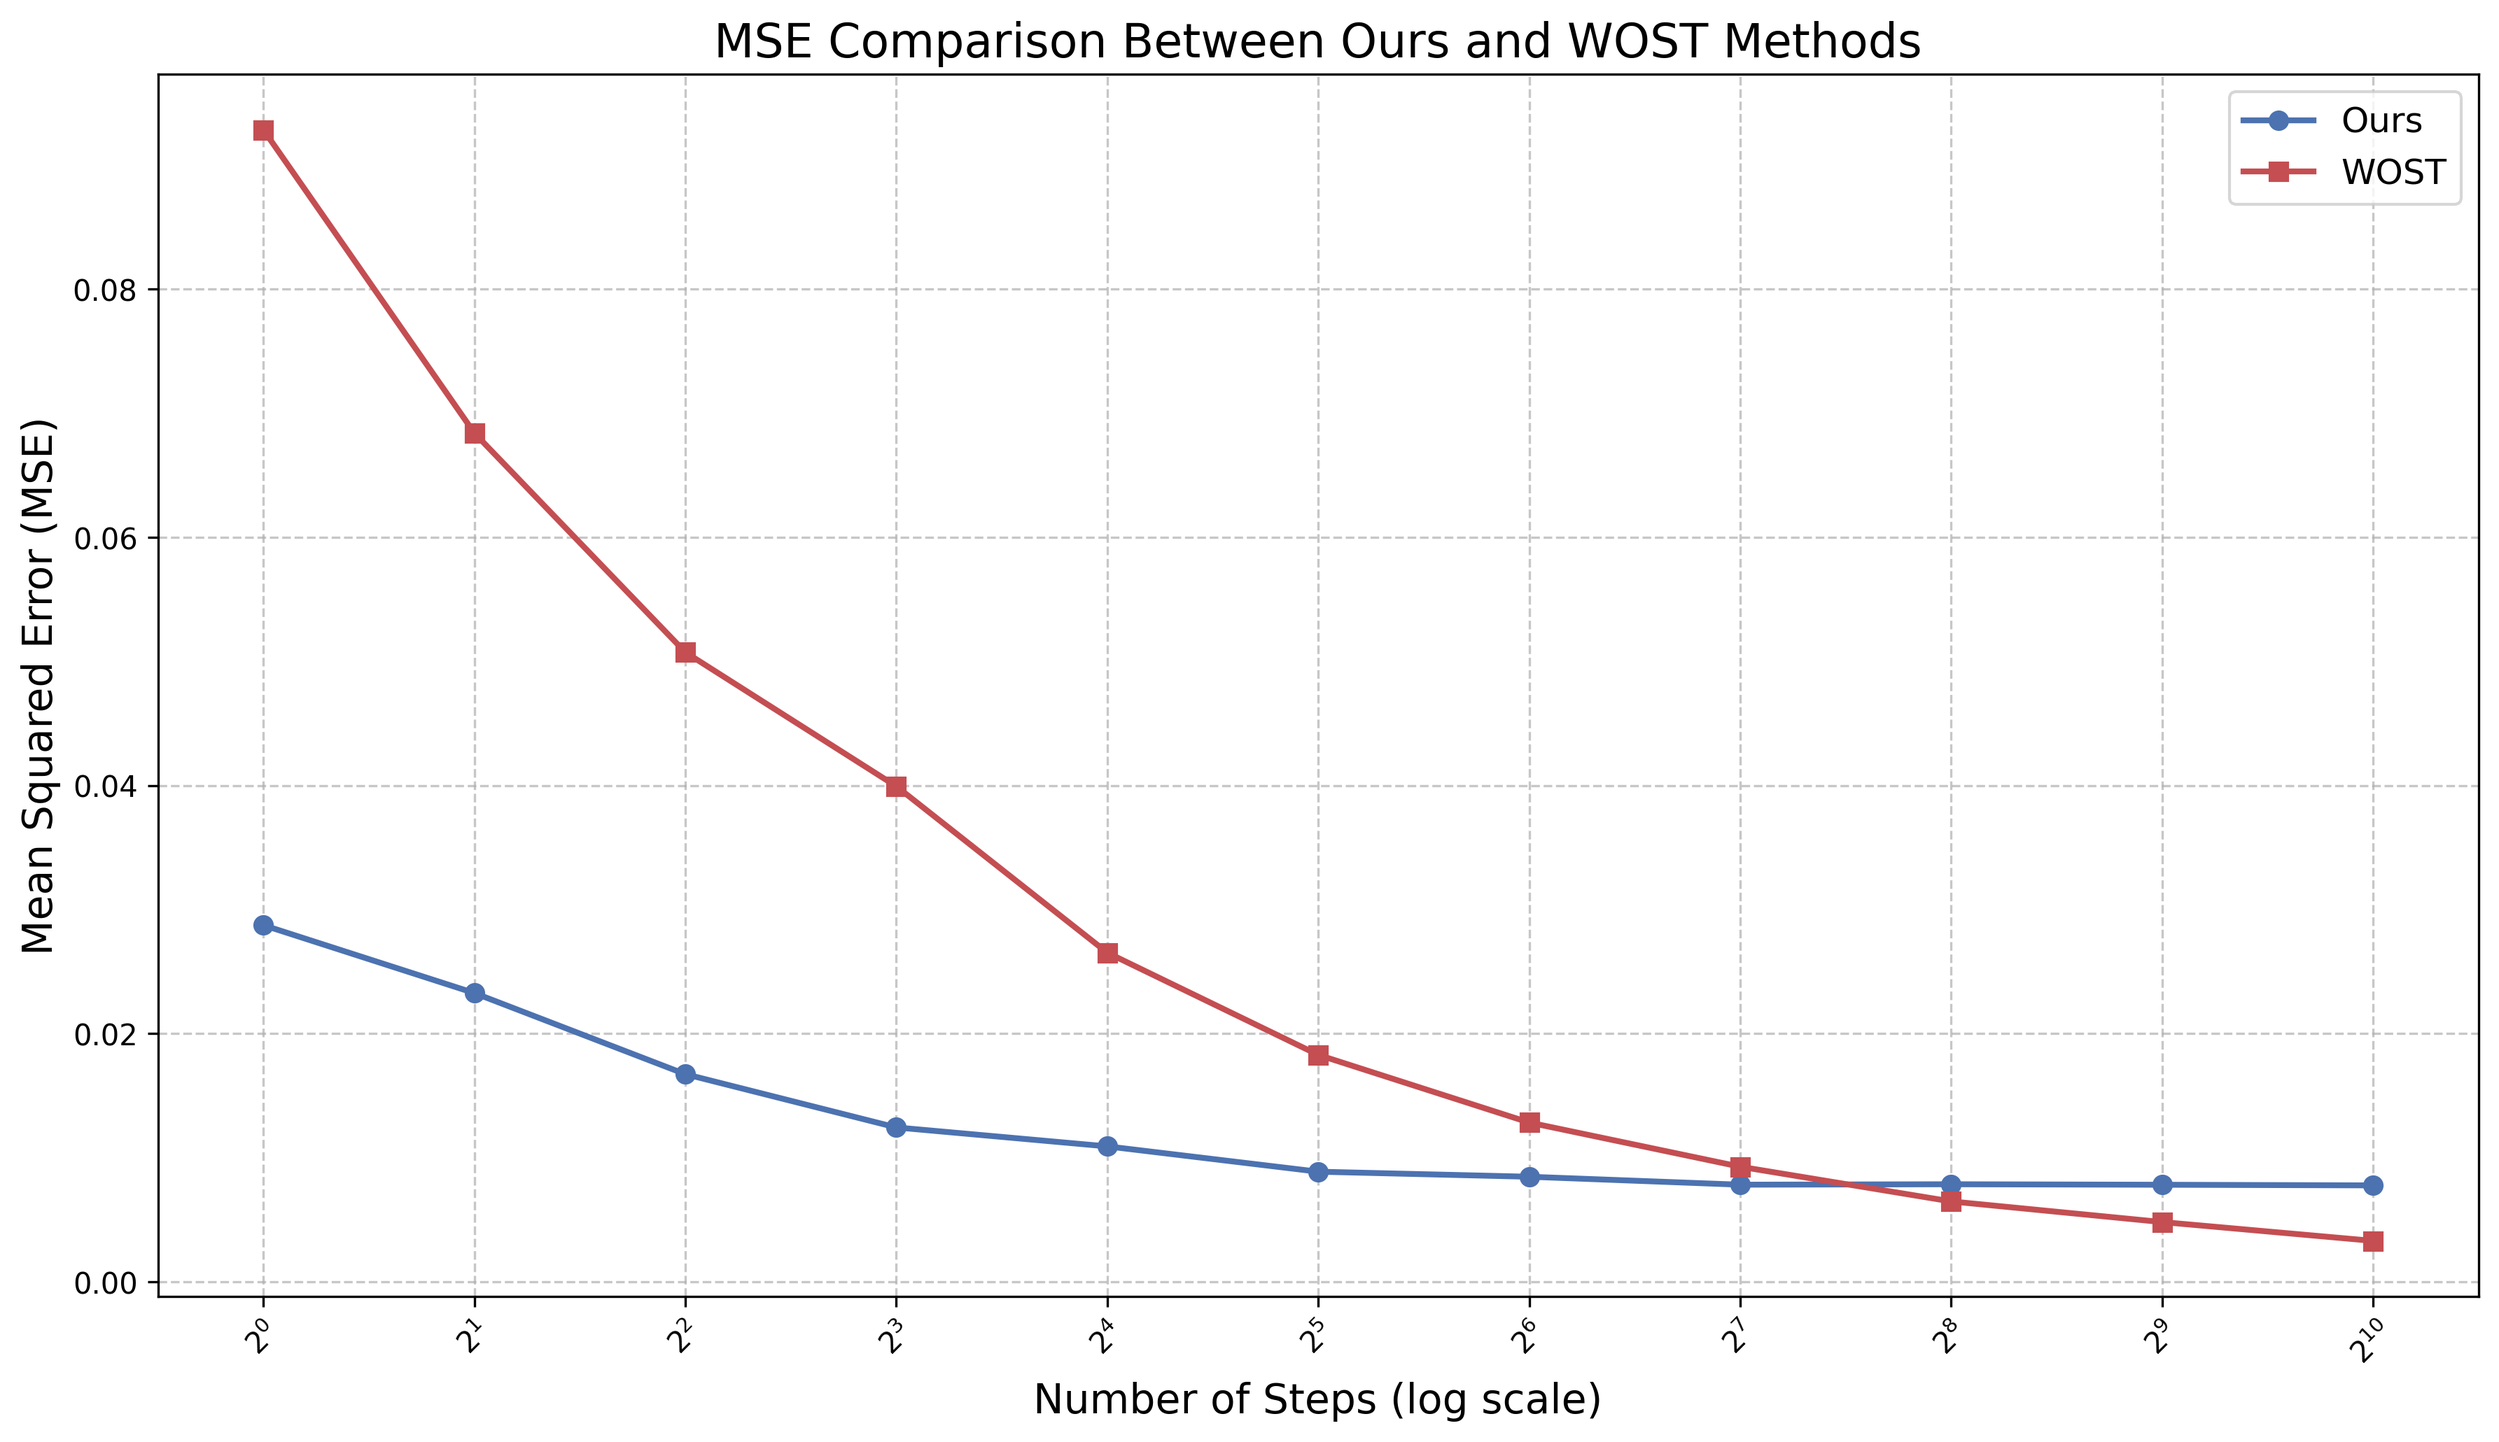
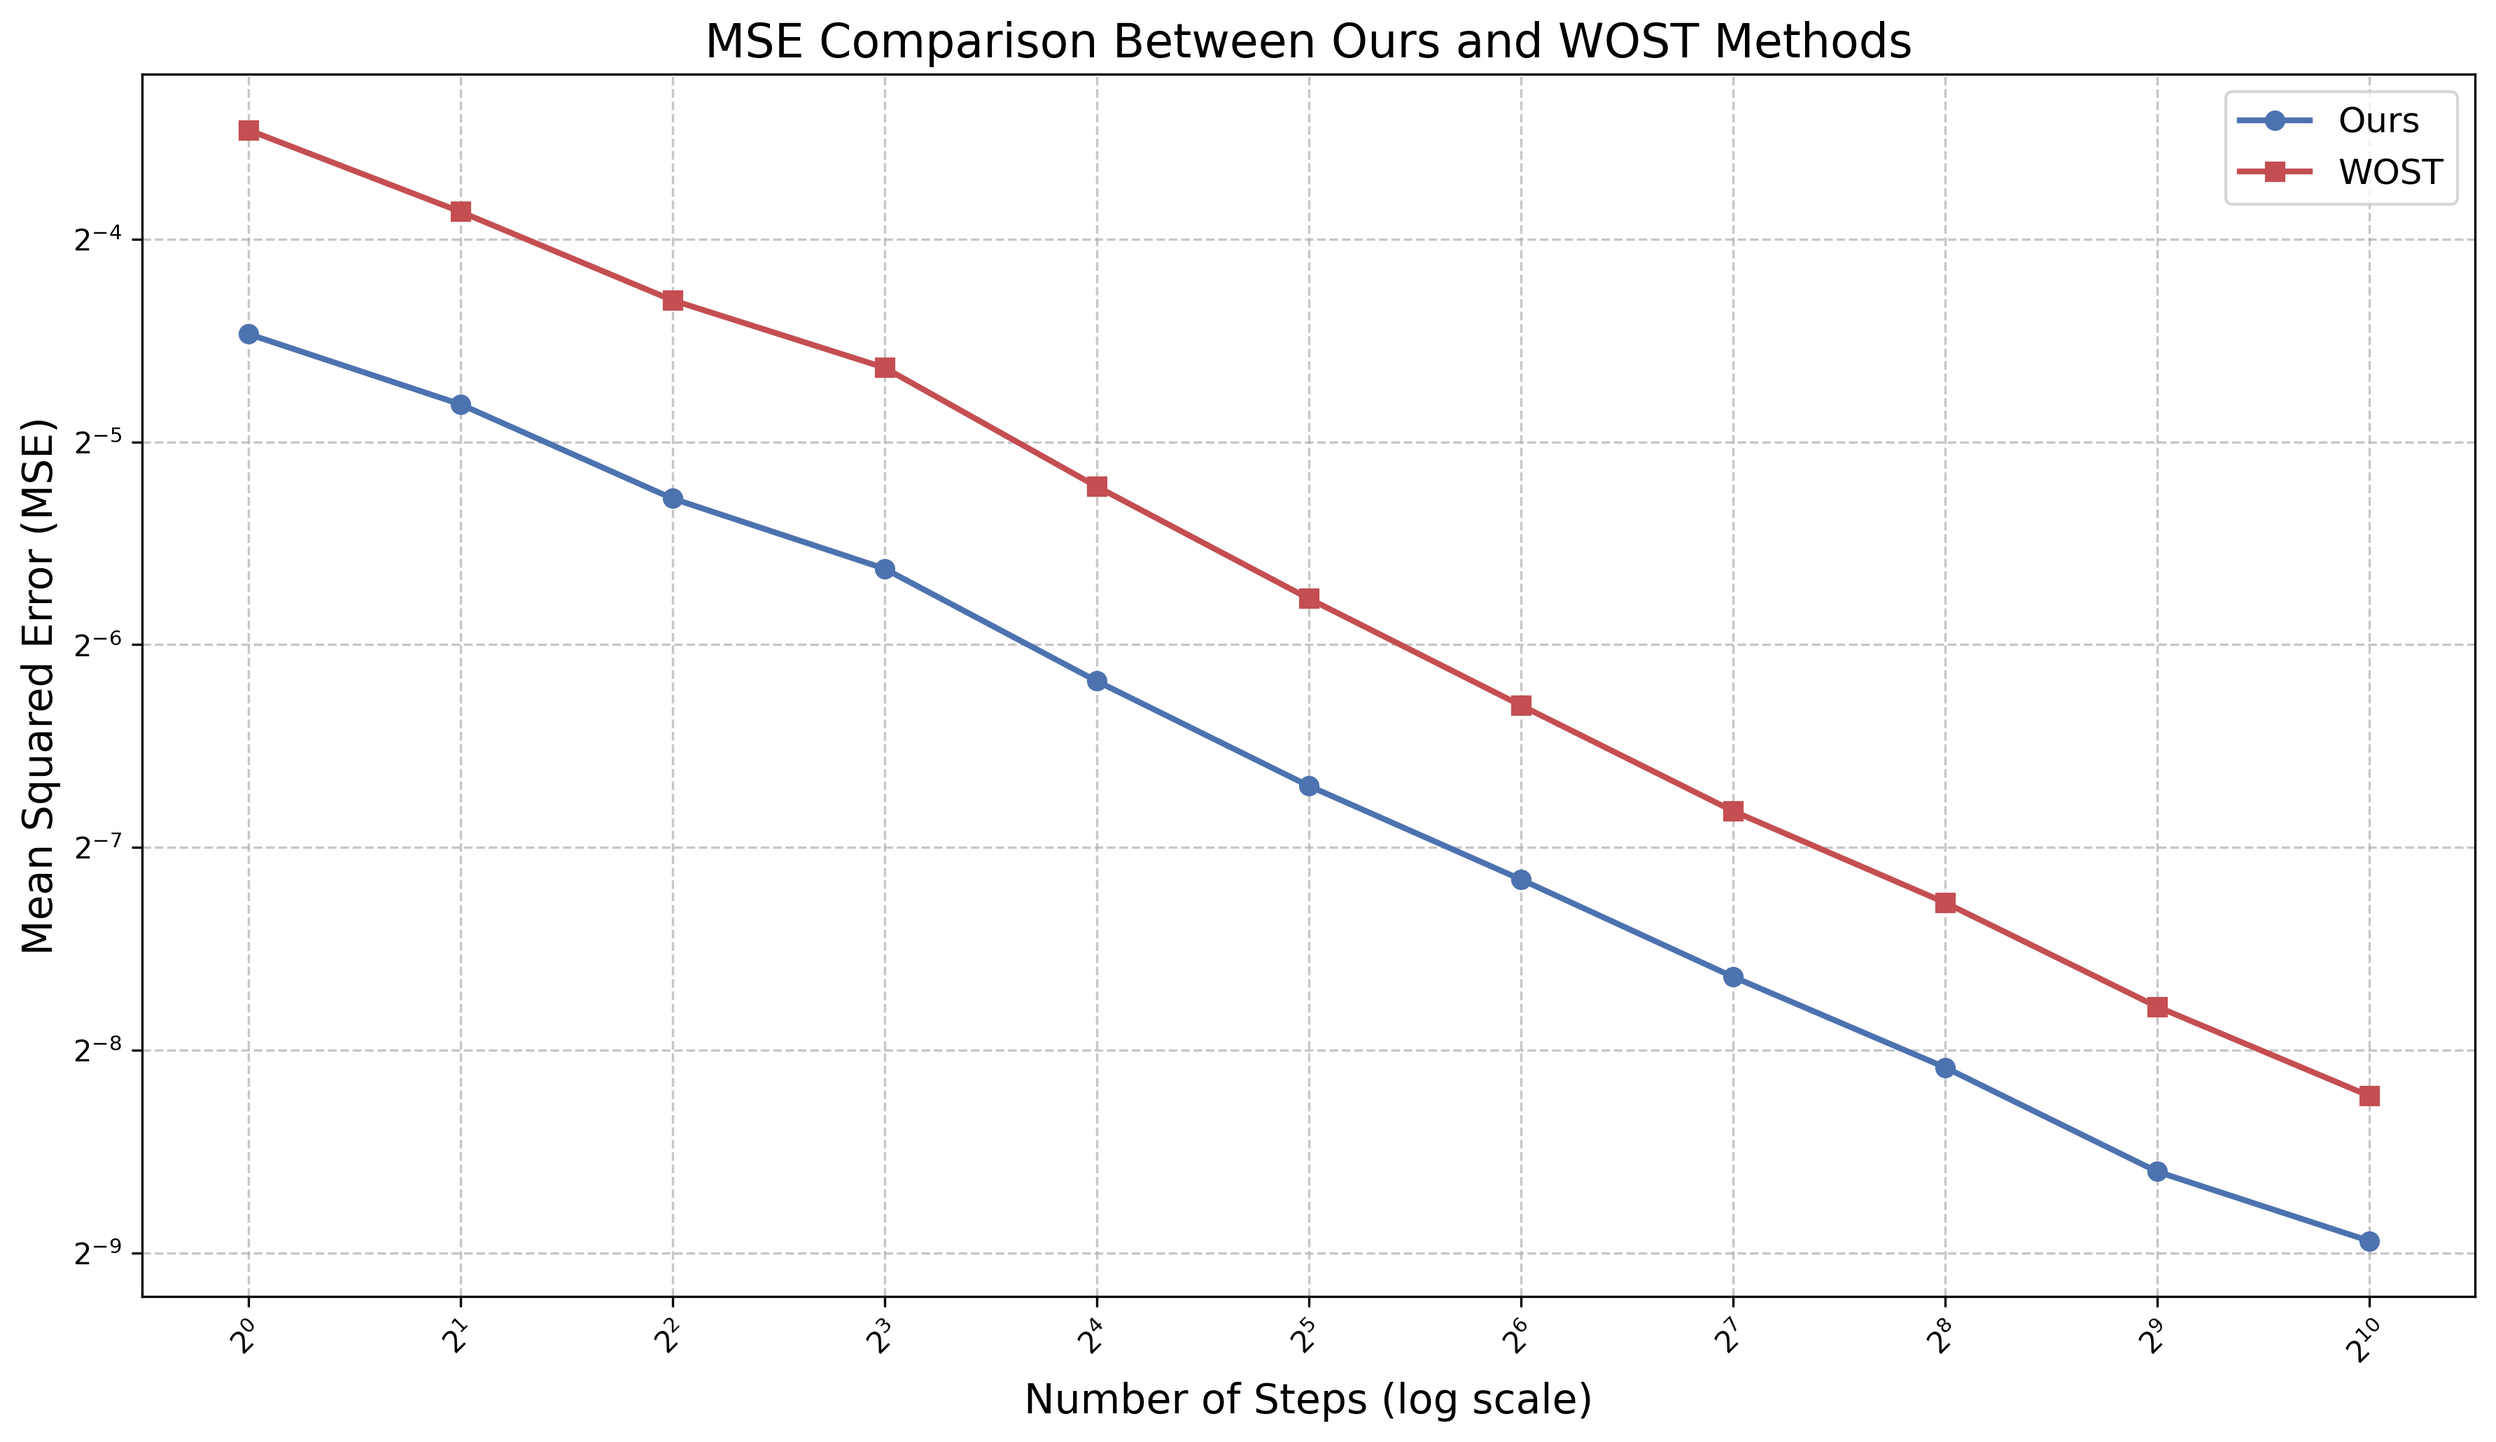
fix: finish vis problem

diff --git a/demo/model_problems/visualize.py b/demo/model_problems/visualize.py
@@ -53,6 +53,7 @@ def plot_results(data, output_file='mse_comparison.png'):
     
     # 设置对数坐标
     plt.xscale('log', base=2)
+    plt.yscale('log', base=2)
     plt.xticks(data['ours'][0] if data['ours'][0] else data['wost'][0], rotation=45)
     
     # 自动调整布局
